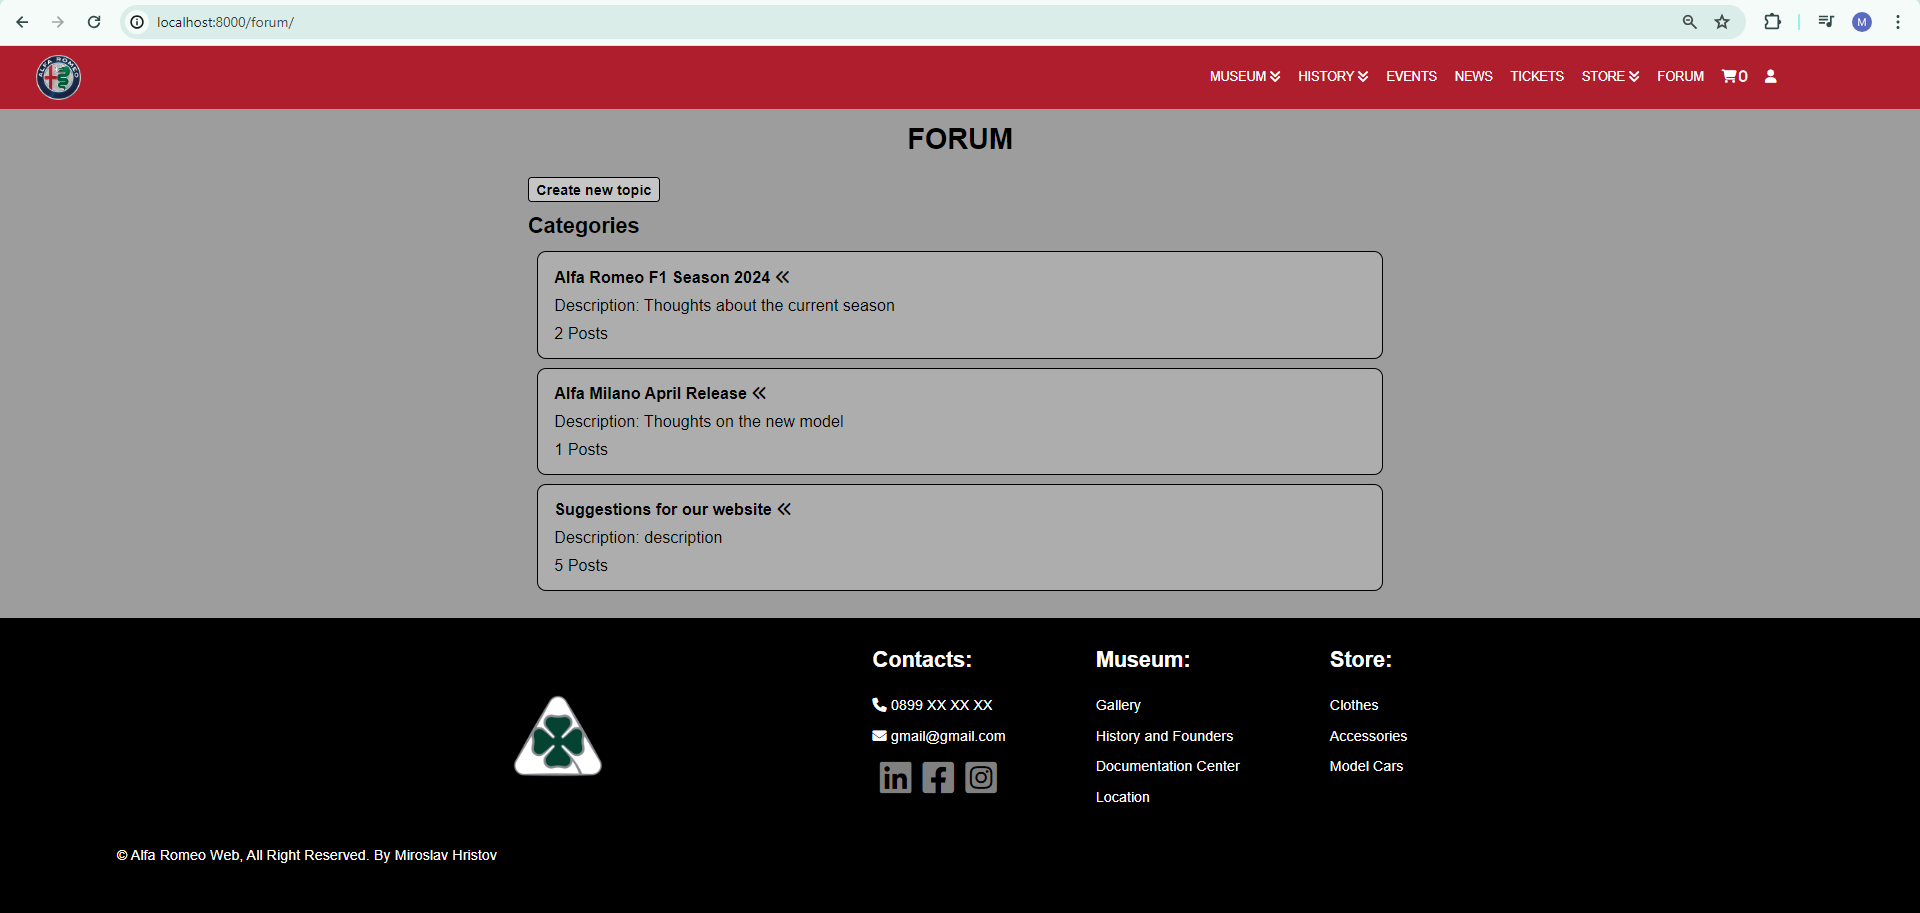
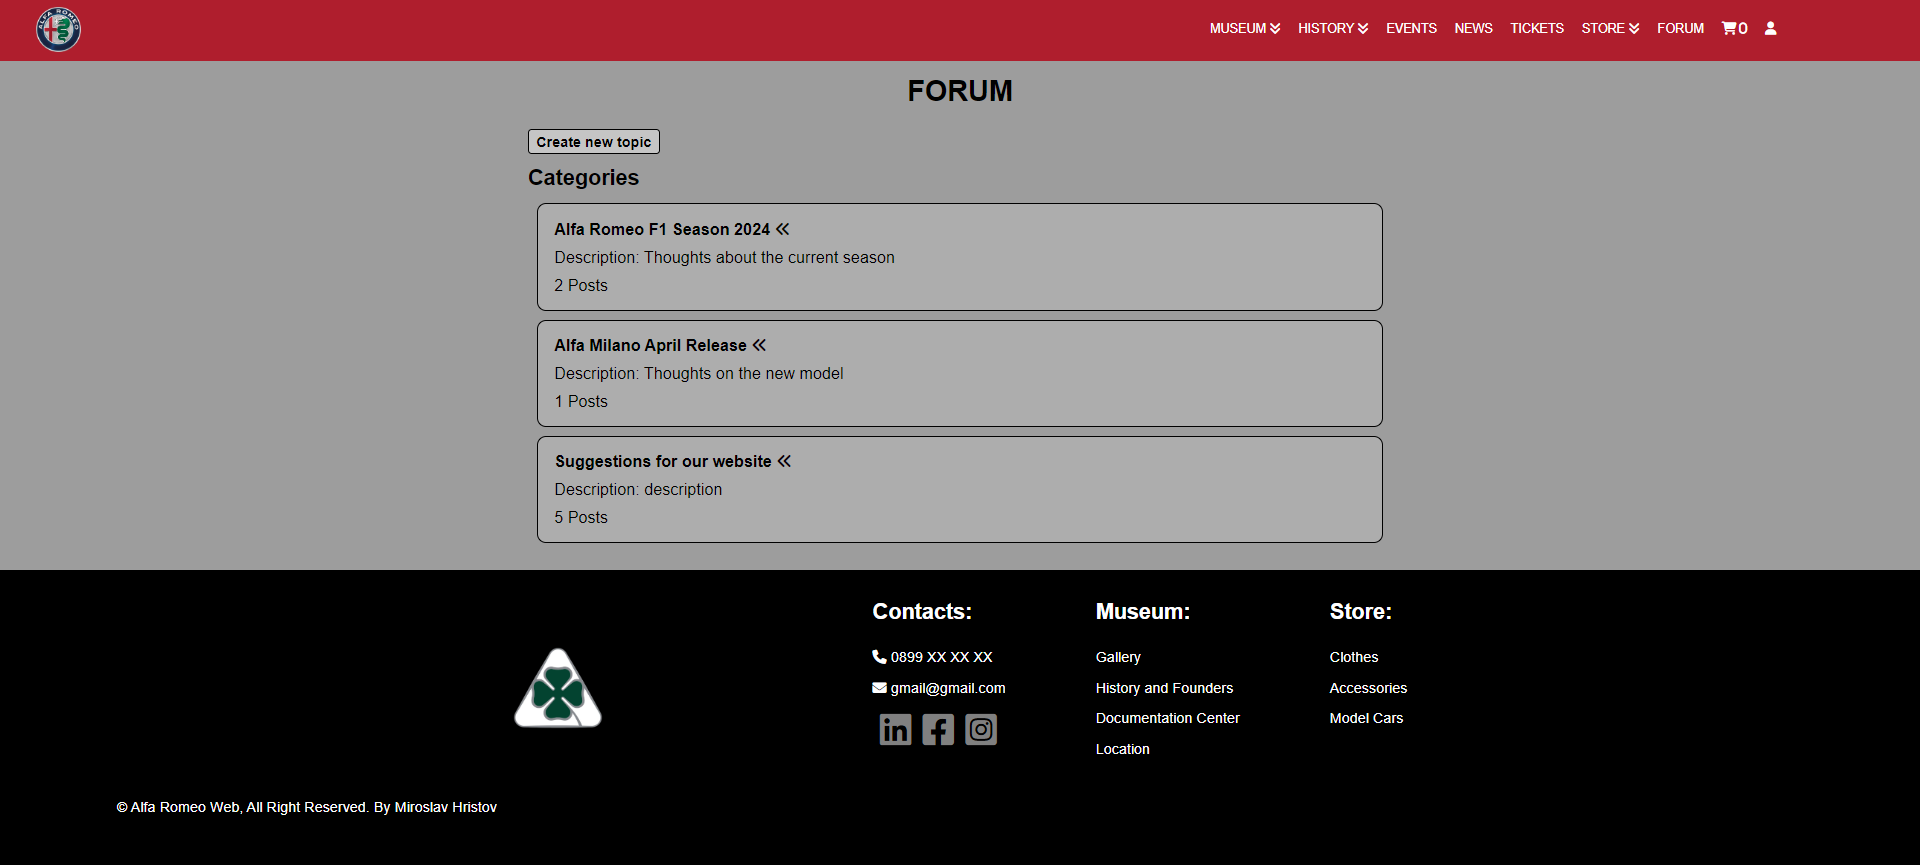
responsive design done and updated README

diff --git a/alfa_romeo_web/templates/accounts/profile_details.html b/alfa_romeo_web/templates/accounts/profile_details.html
@@ -46,13 +46,32 @@
                          {% endif %}
                         
                         <a href="{% url 'edit-profile' pk=object.pk %}">
-                            Edit Profile
+                            Edit Profile 
                             <i class="fa-solid fa-pen"></i>
                         </a>
                         <a href="{% url 'password-change' pk=object.pk %}">
-                            Change Password
+                            Change Password 
                            <i class="fa-solid fa-key"></i>
                         </a>
+                    
+                        <a href="{% url 'logout-user' %}">
+                            Log Out 
+                            <i class="fa-solid fa-right-from-bracket"></i>
+                        </a>
+                    
+                        {% if request.user.is_superuser %}
+                            <a href="{% url 'admin:index' %}">Admin Panel 
+                            <i class="fa-solid fa-lock"></i>
+                            </a>
+                            <a href="{% url 'staff_panel' %}">Staff Panel 
+                            <i class="fa-solid fa-lock"></i>
+                            </a>
+                        {% elif request.user.is_staff %}
+                            <a href="{% url 'staff_panel' %}">Staff Panel 
+                            <i class="fa-solid fa-lock"></i>
+                            </a>
+                        {% endif %}    
+                    
                         <a href="{% url 'delete-profile' pk=object.pk %}">
                             Delete Profile
                             <i class="fa-solid fa-trash"></i>

diff --git a/alfa_romeo_web/staticfiles/style/product_staff_list.css b/alfa_romeo_web/staticfiles/style/product_staff_list.css
@@ -120,3 +120,33 @@
     font-weight: bold;
     color: black;
 }
+
+@media (max-width: 1100px) {
+    .create-product{
+        margin-top: 60px;
+    }
+
+    .container h2{
+        padding-top: 100px;
+    }
+
+    .order-by{
+        margin-right: 10px;
+    }
+
+    .search-field form input{
+        width: 200px;
+    }
+
+    .wrapper .search-field{
+        margin-left: 10px;
+    }
+}
+
+@media (max-width: 700px) {
+
+    .topic{
+        margin: 10px;
+    }
+
+}

diff --git a/alfa_romeo_web/staticfiles/style/forum_staff_list.css b/alfa_romeo_web/staticfiles/style/forum_staff_list.css
@@ -95,3 +95,31 @@
     color: white;
     font-weight: 700;
 }
+
+@media (max-width: 1100px) {
+
+    .container h2{
+        padding-top: 100px;
+    }
+
+    .order-by{
+        margin-right: 10px;
+    }
+
+    .search-field form input{
+        width: 200px;
+    }
+
+    .wrapper .search-field{
+        margin-left: 10px;
+    }
+}
+
+
+@media (max-width: 700px) {
+
+    .topic{
+        margin: 10px;
+    }
+
+}

diff --git a/alfa_romeo_web/staticfiles/style/history_museum_categories.css b/alfa_romeo_web/staticfiles/style/history_museum_categories.css
@@ -57,12 +57,18 @@
 }
 
 
-@media (max-width: 850px){
+@media (max-width: 1400px){
+    .museum-category{
+        margin: 5px;
+    }
+}
+
+@media (max-width: 1150px){
+
     .content{
         height: unset;
         max-height: unset;
         flex-direction: column;
     }
-
 
 }

diff --git a/alfa_romeo_web/staticfiles/style/museum_topic_details.css b/alfa_romeo_web/staticfiles/style/museum_topic_details.css
@@ -57,3 +57,19 @@
     font-size: 18px;
     font-weight: 600;
 }
+
+@media (max-width: 1000px) {
+
+    .museum-topic-details p{
+        padding: 15px;
+    }
+
+}
+
+@media (max-width: 700px) {
+
+    .image-container{
+        max-width: 400px;
+    }
+
+}

diff --git a/alfa_romeo_web/staticfiles/style/event_details.css b/alfa_romeo_web/staticfiles/style/event_details.css
@@ -74,3 +74,17 @@
 .event-location-date .date{
     margin: 0;
 }
+
+
+@media (max-width: 800px) {
+
+    .event-detail-content{
+        height: unset;
+        max-height: unset;
+    }
+
+    .image-container{
+        width: 400px;
+    }
+
+}

diff --git a/alfa_romeo_web/staticfiles/style/news_details.css b/alfa_romeo_web/staticfiles/style/news_details.css
@@ -74,3 +74,16 @@
 .news-location-date .date{
     margin: 0;
 }
+
+@media (max-width: 800px) {
+
+    .news-detail-content{
+        height: unset;
+        max-height: unset;
+    }
+
+    .image-container{
+        width: 400px;
+    }
+
+}

diff --git a/alfa_romeo_web/staticfiles/style/profile_details.css b/alfa_romeo_web/staticfiles/style/profile_details.css
@@ -82,8 +82,14 @@
 
 @media (max-width: 600px) {
 
+    .profile-details {
+        height: unset;
+        max-height: unset;
+    }
+
     .personal{
         flex-direction: column;
+        margin-bottom: 10px;
     }
 
     .image{

diff --git a/README.md b/README.md
@@ -1,4 +1,8 @@
-The Website is done only for study purposes. Since I'm Alfa Romeo fan that's my Softwate University Project !
+This website is a dedicated endeavor for educational purposes, serving as my Software University Project. As an avid Alfa Romeo enthusiast, I've poured my passion into this project. Please note that all images and information utilized are strictly for study purposes.  
+
+
+Bringing my vision to life after nearly two years of anticipation, this project marks not the end, but just the beginning of showcasing my capabilities. Utilizing a plethora of technologies including Python, Django, REST, API, JavaScript, and HTML&CSS, I've meticulously implemented every feature essential for a fully functional website. From a dynamic news feed to immersive events and engaging forums, culminating in a robust store page capable of handling payments, this project showcases the breadth of my expertise and dedication. It's not just a website, it's a testament to my growth and passion for web development!  
+
 
 # Django-Alfa-Romeo-Web-App
 
@@ -87,7 +91,7 @@ The Website is done only for study purposes. Since I'm Alfa Romeo fan that's my 
 ![PaymentPage](screenshots/Screenshot_Pay_Two.png)
 
 8. Forum Page:  
-	- Prety much works as a normal Forum, it has categories, you can add a new topic to each category, there are also comments, the superuser or staff should approve every post before it shows up on web page.  
+	- Prety much works as a normal Forum, it has categories, you can add a new topic to each category, there are also comments.  
 	- Forum can be accessed only by registered users, since registrations requires only Email and Password, the forum also requirest First and Last Name so you can log inside it and view the forum. Redirects you to a page where it tells you that you have to enter you Names.  
 	- Posts have to be approved from Moderator or Administrator before they can be viewed.  
 	- Posts also can be closed, so people can view them, but can't add a comment.  
@@ -121,7 +125,7 @@ The Website is done only for study purposes. Since I'm Alfa Romeo fan that's my 
 ![StaffPage](screenshots/Screenshot_Staff_Three.png)
 
 
-11. MObile Responsive Design:
+11. Mobile Responsive Design:
 
 ![MobileDesign](screenshots/photo_collage_one.png)  
 
@@ -135,7 +139,7 @@ The Website is done only for study purposes. Since I'm Alfa Romeo fan that's my 
 
 ![DB](screenshots/Screenshot_DB_Three.png)  
 
-12. TODO:    
+13. TODO:    
 	- Unit testing.  
-	- Finish the mobile responsive design.  
+	- Deploy.    
 	- Make better README.  
